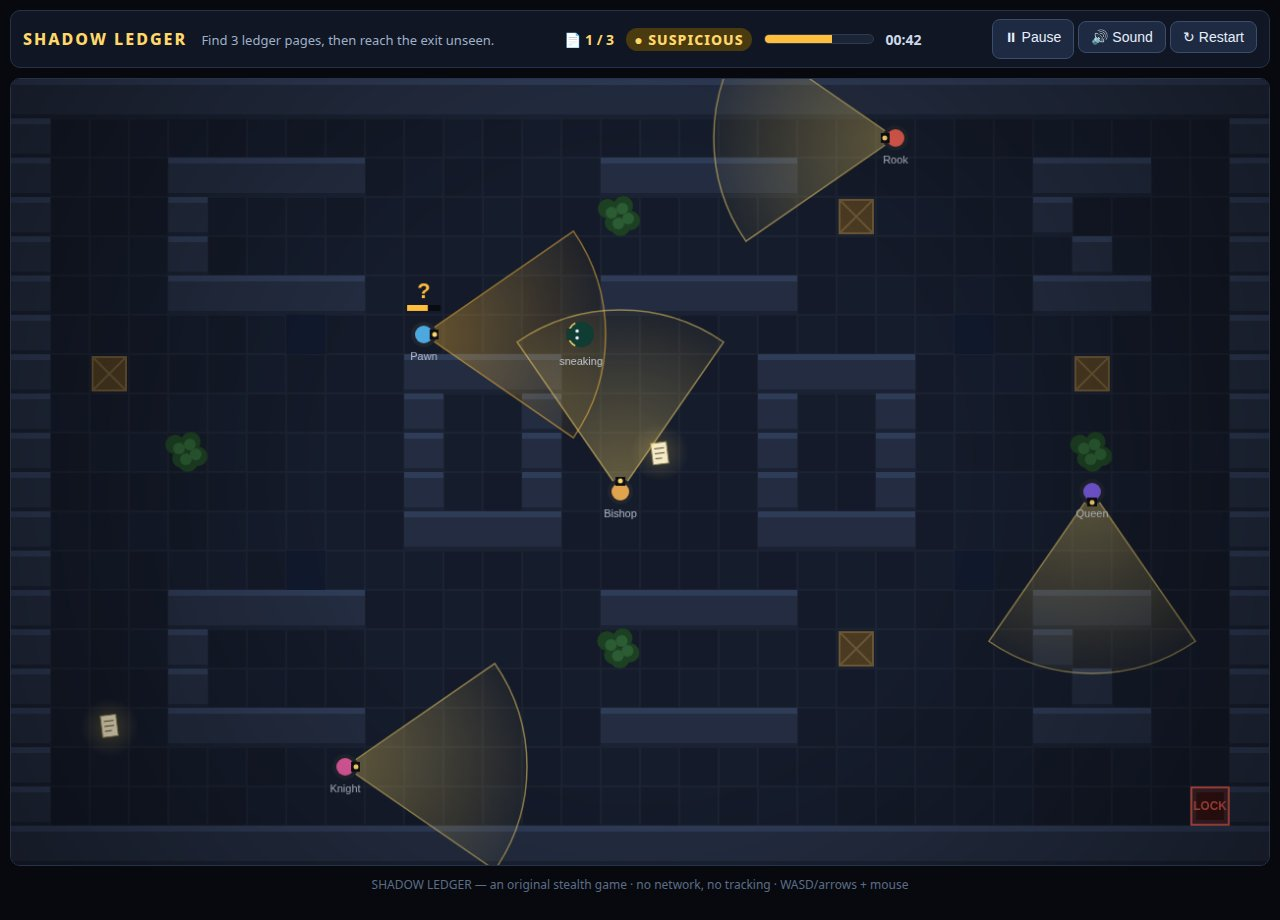
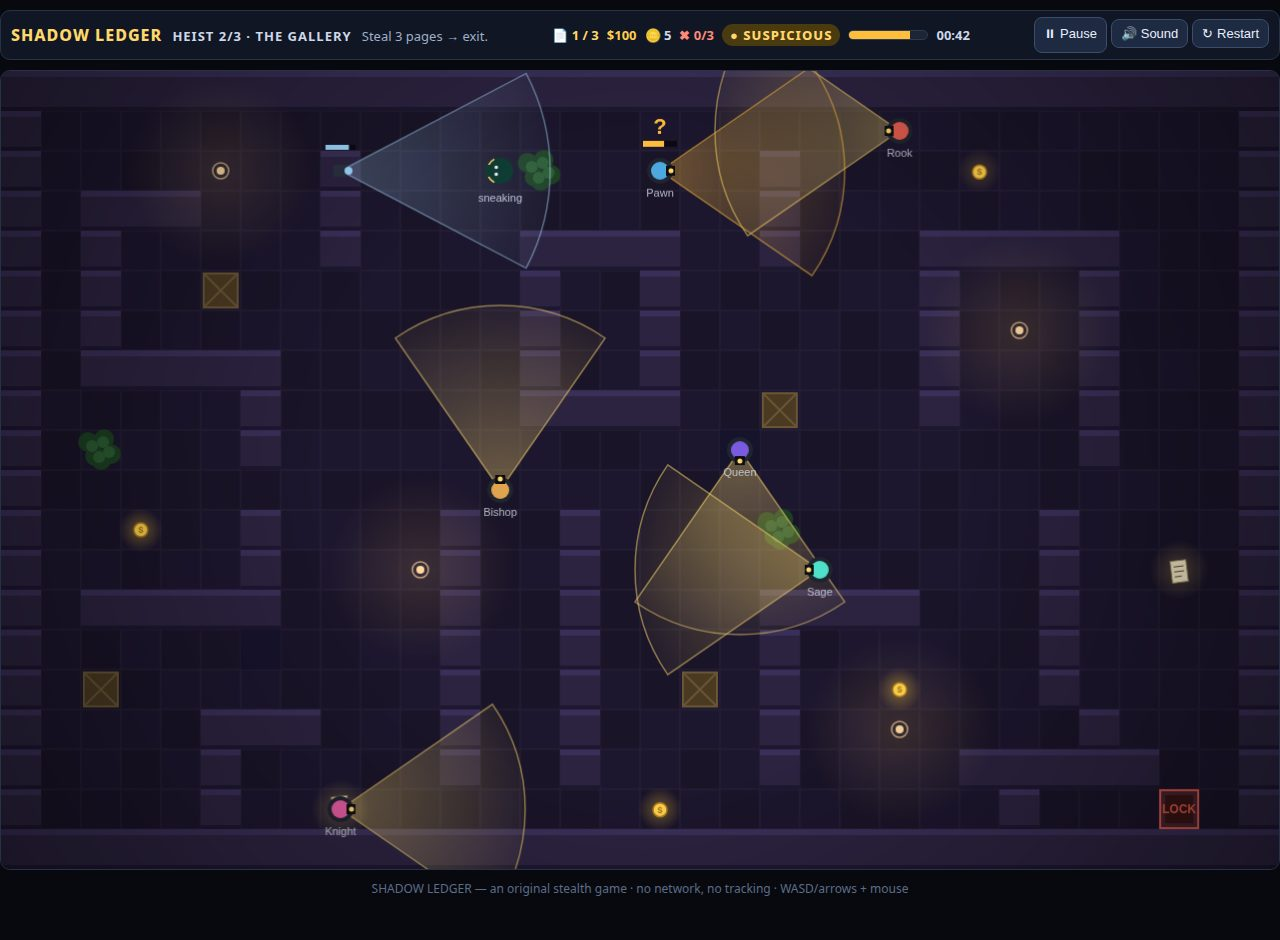
Shadow Ledger v2: README, single-line HUD, real v2 screenshots (1280x940)

diff --git a/game/style.css b/game/style.css
@@ -8,33 +8,34 @@ body {
   display: flex;
   justify-content: center;
 }
-#wrap { width: 1280px; max-width: 100vw; padding: 10px 10px 14px; }
+#wrap { width: 1280px; max-width: 100vw; padding: 10px 0 14px; }
 #hud {
-  display: flex; align-items: center; justify-content: space-between; gap: 12px;
+  display: flex; align-items: center; justify-content: space-between; gap: 8px;
   background: #101623; border: 1px solid #263248; border-radius: 10px;
-  padding: 8px 12px; margin-bottom: 10px; flex-wrap: wrap;
+  padding: 6px 10px; margin-bottom: 10px; flex-wrap: nowrap;
 }
-#hud-title { font-weight: 800; letter-spacing: 2px; color: #ffd76a; margin-right: 10px; }
-#hud-level { font-weight: 700; letter-spacing: 1px; color: #cdd8ea; margin-right: 10px; font-size: 13px; }
+#hud-title { font-weight: 800; letter-spacing: 1px; color: #ffd76a; margin-right: 6px; white-space: nowrap; }
+#hud-level { font-weight: 700; letter-spacing: 1px; color: #cdd8ea; margin-right: 6px; font-size: 13px; white-space: nowrap; }
 #hud-score { font-weight: 700; color: #ffcf4d; }
 #hud-coins { font-weight: 700; color: #cdd8ea; }
 #hud-strikes { font-weight: 700; color: #ff8a7a; }
 #hud-objective { color: #9fb0c9; font-size: 13px; }
-.hud-mid { display: flex; align-items: center; gap: 12px; font-size: 14px; }
+.hud-mid { display: flex; align-items: center; gap: 8px; font-size: 13px; }
+.hud-mid span { white-space: nowrap; }
 #hud-pages { font-weight: 700; color: #ffd76a; }
 #hud-alert { font-weight: 800; letter-spacing: 1px; padding: 2px 8px; border-radius: 20px; }
 .alert-calm { background: #16351f; color: #7be495; }
 .alert-wary { background: #4a3a10; color: #ffd76a; }
 .alert-hunt { background: #571b1b; color: #ff8a7a; }
 #hud-meter {
-  display: inline-block; width: 110px; height: 10px; border-radius: 6px;
+  display: inline-block; width: 80px; height: 10px; border-radius: 6px;
   background: #1c2536; border: 1px solid #2c3a52; overflow: hidden; vertical-align: middle;
 }
 #hud-meter-fill { display: block; height: 100%; width: 0%; background: #ffd76a; transition: width 120ms linear; }
 #hud-time { font-variant-numeric: tabular-nums; font-weight: 700; color: #cdd8ea; }
 .hud-right button, .panel button {
   background: #1d2a42; color: #e8eefb; border: 1px solid #3a4d6d; border-radius: 8px;
-  padding: 7px 12px; font-size: 14px; cursor: pointer;
+  padding: 6px 9px; font-size: 13px; cursor: pointer; white-space: nowrap;
 }
 .hud-right button:hover, .panel button:hover { background: #2a3c5c; border-color: #5a7396; }
 #stage { position: relative; width: 1280px; max-width: 100%; aspect-ratio: 1280 / 800; }

diff --git a/game/src/main.js b/game/src/main.js
@@ -320,7 +320,7 @@ export function createGame() {
 const game = createGame();
 
 function syncHud() {
-  hudLevel.textContent = 'HEIST ' + (game.levelIndex + 1) + '/3 — ' + game.level.name;
+  hudLevel.textContent = 'HEIST ' + (game.levelIndex + 1) + '/3 \u00b7 ' + game.level.name;
   hudPages.textContent = '📄 ' + game.pagesFound + ' / 3';
   hudScore.textContent = '$' + game.score;
   hudStrikes.textContent = '✖ ' + game.strikes + '/3';
@@ -337,7 +337,7 @@ function syncHud() {
   hudTime.textContent = formatTime(game.time);
   hudObjective.textContent = game.pagesFound === 3
     ? 'All pages stolen — reach the green EXIT!'
-    : 'Steal 3 ledger pages, then reach the exit unseen.';
+    : 'Steal 3 pages \u2192 exit.';
   if (game.state === 'levelclear') {
     document.getElementById('levelclear-stats').textContent =
       game.level.name + ' cleared — score $' + game.score +

diff --git a/game/index.html b/game/index.html
@@ -12,7 +12,7 @@
     <div class="hud-left">
       <span id="hud-title">SHADOW LEDGER</span>
       <span id="hud-level">HEIST 1/3 — THE ARCHIVE</span>
-      <span id="hud-objective">Find 3 ledger pages, then reach the exit unseen.</span>
+      <span id="hud-objective">Steal 3 pages → exit.</span>
     </div>
     <div class="hud-mid">
       <span id="hud-pages" title="Ledger pages found">📄 0 / 3</span>

diff --git a/README.md b/README.md
@@ -8,23 +8,36 @@ An original top-down stealth game for the [make.fun best stealth game bounty](ht
 
 ## The game
 
-One thief. One archive. Five guards who never blink. Slip through the
-Meridian Archive after dark, steal the **3 ledger pages**, then reach the
-**green exit** without being caught.
+One thief. Three heists. Guards, cameras, and a vault that never sleeps. Slip
+through the Meridian Archive, the Hall of Portraits and the Star Sapphire
+Vault — steal the **3 ledger pages** on each floor, grab the **gold**, then
+reach the **green exit**. Finish a heist without being caught for a
+**+$500 ghost bonus**.
 
-- **5 patrolling guards** (Rook, Bishop, Knight, Queen, Pawn), each with a
-  sweeping **vision cone** that turns yellow → red as suspicion builds
+- **3 heists, 5 → 7 guards** (Rook, Bishop, Knight, Queen, Pawn, Sage,
+  Warden), each with a sweeping **vision cone** that turns yellow → red as
+  suspicion builds — later floors patrol faster and denser
+- **Security cameras** on the Gallery and the Vault: sweeping cones that
+  build an alarm and call the nearest guard to your position when they trip
+- **Coin-toss gadget** (C or right-click, 5 per heist): throw a coin and the
+  nearest guard walks over to investigate — "WHAT WAS THAT?"
 - **Detection with recovery**: get spotted and a guard investigates; break
   line of sight and suspicion fades. Get fully spotted and the guard chases —
-  get touched and the run is over
+  get touched and you lose a **strike** and restart at the door. **3 strikes**
+  end the run
+- **Loot + score**: pages $100, gold coins $25, ghost bonus $500 per clean
+  heist; Ghost–Shadow–Prowler rank at the end
 - **Cover that reads at a glance**: bushes hide you, crates and walls block
-  sight, dark shadow floor halves how fast you are spotted
+  sight, dark shadow floor halves how fast you are spotted, warm lamp pools
+  mark where you are easy to see
 - **Sneak (hold Shift)**: slower, quieter, harder to spot; running loud
   draws nearby guards toward the noise
-- **HUD**: objective, pages found, alert state, detection meter, timer
+- **HUD**: heist name, pages, score, coins, strikes, alert state, detection
+  meter, timer
 - **Synthesised sound**: footsteps (yours and the guards', quieter with
-  distance), alert sting, pickup chime, win/lose motifs — no audio files
-- **Start / pause / win / lose screens** with a Ghost–Shadow–Prowler rank
+  distance), alert sting, coin clink, pickup chime, win/lose motifs — no
+  audio files
+- **Start / pause / heist-complete / win / lose screens**
 
 ## Controls
 
@@ -33,6 +46,7 @@ Meridian Archive after dark, steal the **3 ledger pages**, then reach the
 | WASD / arrow keys | Move |
 | Click a floor tile | Walk there |
 | Hold Shift | Sneak |
+| C / right-click | Toss a coin to distract a guard |
 | P | Pause |
 | R | Restart |
 | M | Mute |
@@ -49,16 +63,19 @@ cd game && python3 -m http.server 8080
 
 Screenshot scenes are staged deterministically from the live game code:
 `index.html?shot=overview|cone|hide|exit`. A scripted self-test runs at
-`index.html?selftest=1` (7 checks: movement, patrol, detection, hiding,
-win, lose, level parsing).
+`index.html?selftest=1` (12 checks: level parsing, movement, patrol,
+detection, hiding, level clear, heist advance, win, strikes, coin distraction,
+camera alarm).
 
 ## Layout
 
 - `main.ts` — the entry program: copies `game/` + `screenshots/` to
   `/output` and writes `dossier.json` with `vendor/makefun-game.ts`
 - `game/index.html`, `game/style.css` — page shell and HUD
-- `game/src/level.js` — the archive floor, collision, line of sight
+- `game/src/level.js` — the three heist floors, collision, line of sight
 - `game/src/guards.js` — patrols, vision cones, suspicion, chase
+- `game/src/cameras.js` — sweeping security cameras and their alarm
+- `game/src/gadgets.js` — the coin-toss distraction gadget
 - `game/src/player.js` — movement, sneak, click-to-walk, hiding
 - `game/src/audio.js` — synthesised WebAudio sound
 - `game/src/render.js` — all canvas drawing
